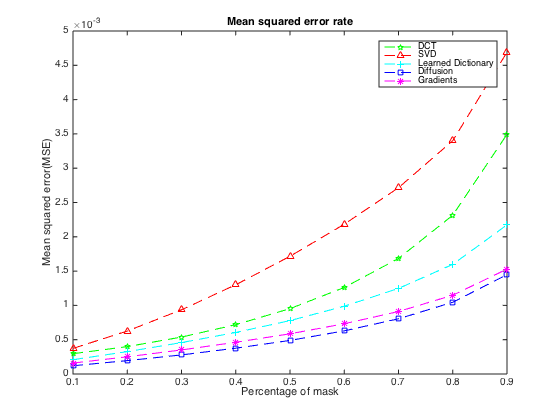
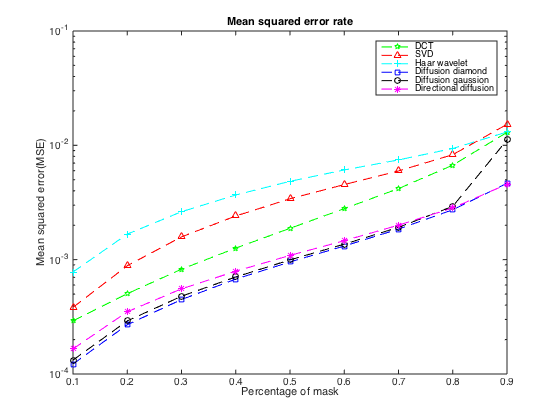
update plotting script and figures

diff --git a/inpainting/evaluation_plot.m b/inpainting/evaluation_plot.m
@@ -1,38 +1,140 @@
-% Evaluation plot
+% Plot results for analysis
 
-% data input
-base = load('baseline.mat');
-dct = load('dictionary_learning.mat');
-diffusion = load('diffusion.mat');
-gradients = load('gradients.mat');
-svd = load('SVD.mat');
+%% Load data input
+% Baseline(DCT)
+dct_rmd = load('baseline_randmask.mat');
+dct_txt = load('baseline_textmask.mat');
+% Baseline(Haar)
+haar_rmd = load('baseline_haar_randmask.mat');
+haar_txt = load('baseline_haar_textmask.mat');
+% Regular diffusion with diamond kernel
+df_dia_rmd = load('diffusion_randmask.mat');
+df_dia_txt = load('diffusion_textmask.mat');
+% Regular diffusion with gaussion kernel
+df_gau_rmd = load('diffusion_guass_randmask.mat');
+df_gau_txt = load('diffusion_guass_textmask.mat');
+% Directional diffusion
+gd_rmd = load('gradients_randmask.mat');
+gd_txt = load('gradients_textmask.mat');
+% SVD
+svd_rmd = load('SVD_randmask.mat');
+svd_txt = load('SVD_textmask.mat');
 
-%box plot for time execution std
-fig_runtime_std = figure;
-boxplot([dct.Time_Mean',base.Time_Mean',gradients.Time_Mean',svd.Time_Mean',diffusion.Time_Mean'],{'Learned Dictionary','DCT', 'Gradients','SVD','Diffusion'});
+%% Mean square error analysis
 
-title('Runtime standard deviation');
-ylabel('Runtime');
-
-% plot for mse
-fig_mse = figure;
+% Plot mse with random mask
 x = linspace(0.1,0.9,9);
-plot(x, base.Result_Mean, '--gp', x, svd.Result_Mean, '--r^', x, dct.Result_Mean, '--c+', x, diffusion.Result_Mean, '--bs', x,gradients.Result_Mean, '--m*');
+fig_mse_rmd = figure;
 
-legend('DCT','SVD','Learned Dictionary','Diffusion','Gradients');
+semilogy(x, dct_rmd.Result_Mean,'--gp', ...
+     x, svd_rmd.Result_Mean,    '--r^', ...
+     x, haar_rmd.Result_Mean,   '--c+', ...
+     x, df_dia_rmd.Result_Mean, '--bs', ...
+     x, df_gau_rmd.Result_Mean, '--ko', ...
+     x, gd_rmd.Result_Mean,     '--m*');
+legend('DCT', ...
+       'SVD', ...
+       'Haar wavelet', ...
+       'Diffusion diamond', ...
+       'Diffusion gaussion', ...
+       'Directional diffusion');
 title('Mean squared error rate');
-xlabel('Mask percentage');
-ylabel('Mean squared error');
+xlabel('Percentage of mask');
+ylabel('Mean squared error(MSE)');
 
+% Plot mse with text mask
+fig_mse_txt = figure;
+y = [dct_txt.Result_Mean, ...
+     svd_txt.Result_Mean, ...
+     haar_txt.Result_Mean, ...
+     df_dia_txt.Result_Mean, ...
+     df_gau_txt.Result_Mean, ...
+     gd_txt.Result_Mean];
+bar(y);
+set(gca,'XTickLabel',{ ...
+        'DCT', ...
+        'SVD', ...
+        'Haar wavelet', ...
+        'Diffusion diamond', ...
+        'Diffusion gaussion', ...
+        'Directional diffusion'});
+
+title('Mean squared error rate');
+% xlabel('Percentage of mask');
+ylabel('Mean squared error(MSE)');
+
+figure
+hold on;
+errorbar(x, svd_rmd.Result_Mean, svd_rmd.Result_Std);
+errorbar(x, df_dia_rmd.Result_Mean, df_dia_rmd.Result_Std);
+errorbar(x, df_gau_rmd.Result_Mean, df_gau_rmd.Result_Std);
+errorbar(x, gd_rmd.Result_Mean, gd_rmd.Result_Std);
+
+% Boxplot mse std with random mask
+fig_mse_rmd_std = figure;
+boxplot([svd_rmd.Result_Mean', ...
+         dct_rmd.Result_Mean', ...
+         haar_rmd.Result_Mean', ...
+         gd_rmd.Result_Mean', ... 
+         df_dia_rmd.Result_Mean', ...
+         df_gau_rmd.Result_Mean'], ...
+         {'SVD', 'DCT', 'Haar wavelet', 'Gradients','Diffusion diamond','Diffusion gaussion'});
+title('Mean squared error standard deviation');
+ylabel('Mean squared error(MSE)');
+
+%% Runtime analysis
 % plot for runtime
-fig_runtime = figure;
 x = linspace(0.1,0.9,9);
-plot(x, base.Time_Mean, '--gp', x, svd.Time_Mean, '--r^', x, dct.Time_Mean, '--c+', x, diffusion.Time_Mean, '--bs', x,gradients.Time_Mean, '--m*');
+fig_time_rmd = figure;
+% plot(x, dct.Result_Mean, '--gp', x, svd.Result_Mean, '--r^', x, dictionary.Result_Mean, '--c+', x, diffusion.Result_Mean, '--bs', x, diffusion_gauss.Result_Mean, '--yo', x,gradients.Result_Mean, '--m*');
+% plot(x, dct_rmd.Time_Mean,    '--gp', ...
+semilogy(x, dct_rmd.Time_Mean,    '--gp', ...
+     x, svd_rmd.Time_Mean,    '--r^', ...
+     x, haar_rmd.Time_Mean,   '--c+', ...
+     x, df_dia_rmd.Time_Mean, '--bs', ...
+     x, df_gau_rmd.Time_Mean, '--ko', ...
+     x, gd_rmd.Time_Mean,     '--m*');
+legend('DCT', ...
+       'SVD', ...
+       'Haar wavelet' , ...
+       'Diffusion diamond', ...
+       'Diffusion gaussion', ...
+       'Directional diffusion');
+title('Runtime');
+xlabel('Percentage of mask');
+ylabel('Runtime(sec)');
 
-legend('DCT','SVD','Learned Dictionary','Diffusion','Gradients');
-title('Runtime rate');
-xlabel('Mask percentage');
-ylabel('Runtime');
+% Plot runtime with text mask
+fig_time_txt = figure;
+% plot(x, dct.Result_Mean, '--gp', x, svd.Result_Mean, '--r^', x, dictionary.Result_Mean, '--c+', x, diffusion.Result_Mean, '--bs', x, diffusion_gauss.Result_Mean, '--yo', x,gradients.Result_Mean, '--m*');
 
+y = [dct_txt.Time_Mean, ...
+     svd_txt.Time_Mean, ...
+     haar_txt.Time_Mean, ...
+     df_dia_txt.Time_Mean, ...
+     df_gau_txt.Time_Mean, ...
+     gd_txt.Time_Mean];
+bar(y);
+set(gca,'XTickLabel',{ ...
+        'DCT', ...
+        'SVD', ...
+        'Haar wavelet', ...
+        'Diffusion diamond', ...
+        'Diffusion gaussion', ...
+        'Directional diffusion'});
 
+title('Runtime');
+% xlabel('Percentage of mask');
+ylabel('Runtime(sec)');
 
+% Boxplot runtime std with random mask
+fig_time_rmd_std = figure;
+boxplot([svd_rmd.Time_Mean', ...
+         dct_rmd.Time_Mean', ...         
+         haar_rmd.Time_Mean', ...
+         gd_rmd.Time_Mean', ... 
+         df_dia_rmd.Time_Mean', ...
+         df_gau_rmd.Time_Mean'], ...
+         {'SVD', 'DCT', 'Gradients', 'Haar wavelet','Diffusion diamond','Diffusion gaussion'});
+title('Runtime standard deviation');
+ylabel('Runtime(sec)');

diff --git a/cil_report/discussion.tex b/cil_report/discussion.tex
@@ -1,7 +1,28 @@
 \section{Discussion}
 \label{sec:discussion}
 
+\begin{figure*}
+	\centering
+	\begin{subfigure}[b]{0.48\textwidth}
+		\centering
+		\includegraphics[clip, trim=1cm 0cm 1cm 0cm, width=0.9\textwidth]{figures/mse}
+		\caption{Mean square error in log scale}
+		\label{fig:err_random}
+	\end{subfigure}
+	\begin{subfigure}[b]{0.48\textwidth}
+		\centering
+		\includegraphics[clip, trim=1cm 0cm 1cm 0cm, width=0.9\textwidth]{figures/runtime}
+		\caption{Runtime in log scale}
+		\label{fig:runtime}
+	\end{subfigure}
+	
+	\caption{Mean square error and runtime comparison with different algorithms}
+	\label{fig:results}
+\end{figure*}
+
+
 Both the regular diffusion and the directional diffusion algorithm show promising results. From figure \ref{fig:err_random} we see that the regular diffusion algorithm with the $K_{\text{diamond}}$ kernel works best on a mask of randomly missing pixels. This phenomenon can be explained by the fact that this algorithm diffuses nearby pixels into the missing regions. A mask with randomly missing pixels will, on average, have at least some pixels in the direct or near neighborhood of a pixel that we try to inpaint.
+
 
 Table \ref{tbl:err_text} shows the mean squared error of the algorithms on a fixed mask, namely a piece of text. In this case, the missing pixels have some structure and form medium-sized areas of missing pixels. In that case, the directional diffusion algorithm performs best. As the size of the regions of missing pixels gets larger, the regular diffusion algorithm has less nearby pixels to work with. Any high-contrasting edges of the underlying image are not properly extended into the unknown regions. The directional diffusion algorithms helps resolve this by aligning the kernel  $K_{\theta}$ with the general directionality of the image patch. This attempts to propagate high-contrast edges of the image into the unknown regions. This does however come at the cost of a significant increase in runtime.
 
